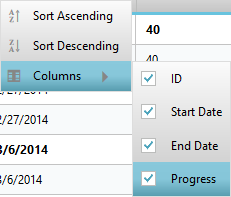
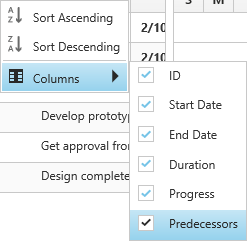
Columns md files and images committed.

diff --git a/js/Gantt/Columns.md b/js/Gantt/Columns.md
@@ -6,177 +6,147 @@ platform: js
 control: Gantt
 documentation: ug
 ---
-
 # Columns
 
-The TreeGrid column displays the information from a bounded data source and it will be editable to update the task details through TreeGrid.
+The column displays the information from a bounded data source and it will be editable to update the task details through TreeGrid.
 
-### Column Resizing
+## Column edit types
 
-You can change the width of the column in TreeGrid to show the entire text of the column by resizing the column. The following code example shows you how to enable the Column Resize feature at **Gantt** initialize.
+Gantt supports the following types of column editors,
+
+  * String 
+  * Date
+  * Datetime
+  * Numeric
+  * Maskedit
+  * Currency
+  * Dropdown
+## Format column
+
+
+It is possible to format a column using ‘load’ event. The following code examples show how to format the ‘progress’ column with percentage value.
+
+{% highlight javascript %}
+ $("#GanttContainer").ejGantt({
+        //...
+        load: function (args) {
+            var columns = this.getColumns();
+            columns[5]["format"] = "{0:p0}";
+        }
+ });
+{% endhighlight %}
+
+Note: For more numeric format strings, please refer this [link](https://msdn.microsoft.com/library/dwhawy9k(v=vs.100).aspx).
+
+For more date format strings, please refer this [link](https://msdn.microsoft.com/library/az4se3k1(v=vs.100).aspx).
+
+## Column Resizing
+
+You can change the width of the column to show the entire text of the column by resizing the column. The following code example shows you how to enable the Column Resize feature at **Gantt** initialize.
 
 {% highlight javascript %}
 
-     $("#GanttContainer").ejGantt({
-        //...
-        allowColumnResize: true
-    });
+$("#GanttContainer").ejGantt({
+    //...
+    allowColumnResize: true
+});
 
 {% endhighlight %}
 
-### Column Template
+## Column Template
 
 Column template is used to customize the column’s look and feel, based on requirement. 
 
-The following code example shows you how to display the icon in the TreeGrid column.
-
-{% highlight html %}
-
-        <script type="text/x-jsrender" id="columnTemplate">        
-                 <div  style='height:20px;width:20px;margin:auto;background-image:url(".../images/{{"{{"}}:~className(){{}}}}")'/>              
-        </script>
-
-{% endhighlight %}
+The following code example shows you how to display a column with resource images.
 
 {% highlight javascript %}
+<script type="text/x-jsrender" id="columnTemplate">
 
-            $.views.helpers({ className: getClassName });
+    {{if #data['resourceNames']}}
 
-            function getClassName() {
+    <div style="display:inline-block;position:relative;left:10px;top:1px">
 
-                var cellValue = this.data.item && this.data.item["Platform"];
+        <img src="images/gantt/{{:#data['resourceNames']}}.png" height="40px" />
 
-                switch (cellValue) {
+    </div>
 
-                    case "ASP.NET":
-                        cellValue = "asp.png";
-                        break;
+    <div style='display:inline-block;width:100%;position:relative;left:10px;top:2px'>{{:#data['resourceNames']}}</div>
 
-                    case "ASP.NET MVC":
-                        cellValue = "mvc.png";
-                        break;
+    {{/if}}
+</script>
 
-                    case "JS":
-                        cellValue = "js.png";
-                        break;
+var columnTemplateData = [{
+    taskID: 1,
+    taskName: "Project Schedule",
+    startDate: "02/03/2014",
+    endDate: "03/07/2014",
+    subtasks: [{
+        taskID: 2,
+        taskName: "Planning",
+        startDate: "02/03/2014",
+        endDate: "02/07/2014",
+        subtasks: [{
+                taskID: 3,
+                taskName: "Plan timeline",
+                startDate: "02/03/2014",
+                endDate: "02/07/2014",
+                duration: 6,
+                progress: "60",
+                resourceId: [1]
+            },
+            //...
+        ]
+    }, ]
+}];
+$(function() {
 
-                    case "Mobile MVC":
-                        cellValue = "mob.png";
-                        break;
+    $("#gantt").ejGantt({
 
-                    case "Silverlight":
-                        cellValue = "sl.png";
-                        break;
+        //…
 
-                    case "Windows Forms":
-                        cellValue = "wf.png";
-                        break;
+        scheduleEndDate: "03/016/2014",
 
-                    case "Windows Phone":
-                        cellValue = "wp.png";
-                        break;
-                    default:
-                }
-                return cellValue;
-            }
+        //Resources mapping
 
+        resourceInfoMapping: "resourceId",
 
-            var projectDetails = [
-                {
-                    "Id": 1,
-                    "Platform": "ASP.NET",
-                    "TaskName": "Volume 1 Release",
-                    "StartDate": "01/06/2014",
-                    "Duration": 5,
-                    "Progress": 30,
-                    "children": [
-                        {
-                            "Id": 2,
-                            "Platform": "ASP.NET MVC",
-                            "TaskName": "Volume1Sprint1",
-                            "StartDate": "01/06/2014",
-                            "Duration": 5,
-                            "Progress": 100
-                        },
-                        {
-                            "Id": 3,
-                            "Platform": "JS",
-                            "TaskName": "Volume1Sprint2",
-                            "StartDate": "01/13/2014",
-                            "Duration": 5,
-                            "Progress": 100
-                        },
-                        {
-                            "Id": 4,
-                            "Platform": "Mobile MVC",
-                            "TaskName": "Volume1Sprint3",
-                            "StartDate": "01/20/2014",
-                            "Duration": 5,
-                            "Progress": 100
-                        },
-                        {
-                            "Id": 5,
-                            "Platform": "Silverlight",
-                            "TaskName": "Volume1Sprint4",
-                            "StartDate": "01/27/2014",
-                            "Duration": 5,
-                            "Progress": 100
-                        },
-                        {
-                            "Id": 6,
-                            "Platform": "Windows Forms",
-                            "TaskName": "Volume1Sprint5",
-                            "StartDate": "02/03/2014",
-                            "Duration": 5,
-                            "Progress": 100
-                        },
-                        {
-                            "Id": 7,
-                            "Platform": "Windows Phone",
-                            "TaskName": "Volume1Sprint6",
-                            "StartDate": "02/10/2014",
-                            "Duration": 5,
-                            "Progress": 100
-                        }
-                    ]
-                }
-            ];
+        resourceNameMapping: "resourceName",
 
-            $(function () {
+        resourceIdMapping: "resourceId",
 
-                $("#GanttContainer").ejGantt({
-                    dataSource: projectDetails,
-                    taskIdMapping: "Id",
-                    taskNameMapping: "TaskName",
-                    startDateMapping: "StartDate",
-                    progressMapping: "Progress",
-                    durationMapping: "Duration",
-                    childMapping: "children",
-                    scheduleStartDate: "1/06/2014",
-                    scheduleEndDate: "02/28/2014",
+        resources: columnTemplateResource,
 
-                    load: function () {
-                        var columns = this.getColumns();
-                        columns.splice(1, 0,
-                            {
-                                field: "Platform",
-                                headerText: "Product",
-                                isTemplateColumn: true,
-                                templateID: "columnTemplate",
-                                width: "60px"
-                            });
-                    }
-                });
-            });
+        allowGanttChartEditing: false,
 
+        load: function(args) {
+
+            var gantt = $("#gantt").ejGantt("instance");
+
+            var columns = gantt.getColumns();
+
+            columns[2].visible = columns[3].visible = false;
+
+            columns[4].isTemplateColumn = true;
+
+            columns[4].templateID = "columnTemplate";
+
+            columns[4].width = "172";
+
+        },
+
+    });
+
+});
 
 {% endhighlight %}
 
 The following screenshot displays the customized column in Gantt control.
 
-![](/js/Gantt/Columns_images/Columns_img1.png)
+![](/js/Gantt/Columns_images/Columns_img7.png)
 
-### Column Chooser
+## Column menu
+
+### Show column chooser
 
 Gantt supports enabling and disabling the visibility of the columns dynamically with the `showColumnChooser` property. The visibility of the custom columns can also be toggled with this property. Column chooser option is rendered as a sub menu item within the column menu in the Gantt columns. 
 
@@ -193,19 +163,52 @@ The column menu provides the following options:
 Sort Ascending and Sort Descending options can be enabled or disabled with the `allowSorting` property. Single level sorting can be performed with these options. To perform multilevel sorting, `allowMultiSorting` property should be enabled. You can also disable the visibility of a particular column in the column collection manually by setting the `visible` property to `false`.
 
 {% highlight javascript %}
-
-    $("#gantt").ejGantt(
-    {   
+$("#gantt").ejGantt({
         // ...     
-          showColumnChooser: true,
-          allowSorting: true,
-          allowMultiSorting: true,
+        showColumnChooser: true,
+        allowSorting: true,
+        allowMultiSorting: true,
         // ...             
-    });
+});
 
 {% endhighlight %}
 
 The following screenshot displays the column chooser in the Gantt control.
 
 ![](/js/Gantt/Columns_images/Columns_img3.png)
+
+### Show column options
+
+You can customize the column with some more options with the ‘showColumnOptions’ property. Insert new column, delete column and update the header text of the column can be done with this property.
+
+![](/js/Gantt/Columns_images/Columns_img4.png)
+
+The column options can be enable or disabled with showColumnOptions property, where the default value for this perperty is false.
+
+The column options provide the following options:
+
+* Insert column left
+* Insert column right
+* Delete column
+* Rename column
+
+Inserting column provides the dialog to enter the details for the column
+
+![](/js/Gantt/Columns_images/Columns_img5.png)
+
+These fields can be customized with ‘columnDialogFields’ this property. The following shows you how to customize these fields.
+
+{% highlight javascript %}
+
+$("#gantt").ejGantt({
+        // ...     
+        showColumnChooser: true,
+        showColumnOptions: true,
+        columnDialogFields: ["field", "headerText", "editType"],
+        // ...             
+});
+
+{% endhighlight %}
+
+![](/js/Gantt/Columns_images/Columns_img6.png)
 
